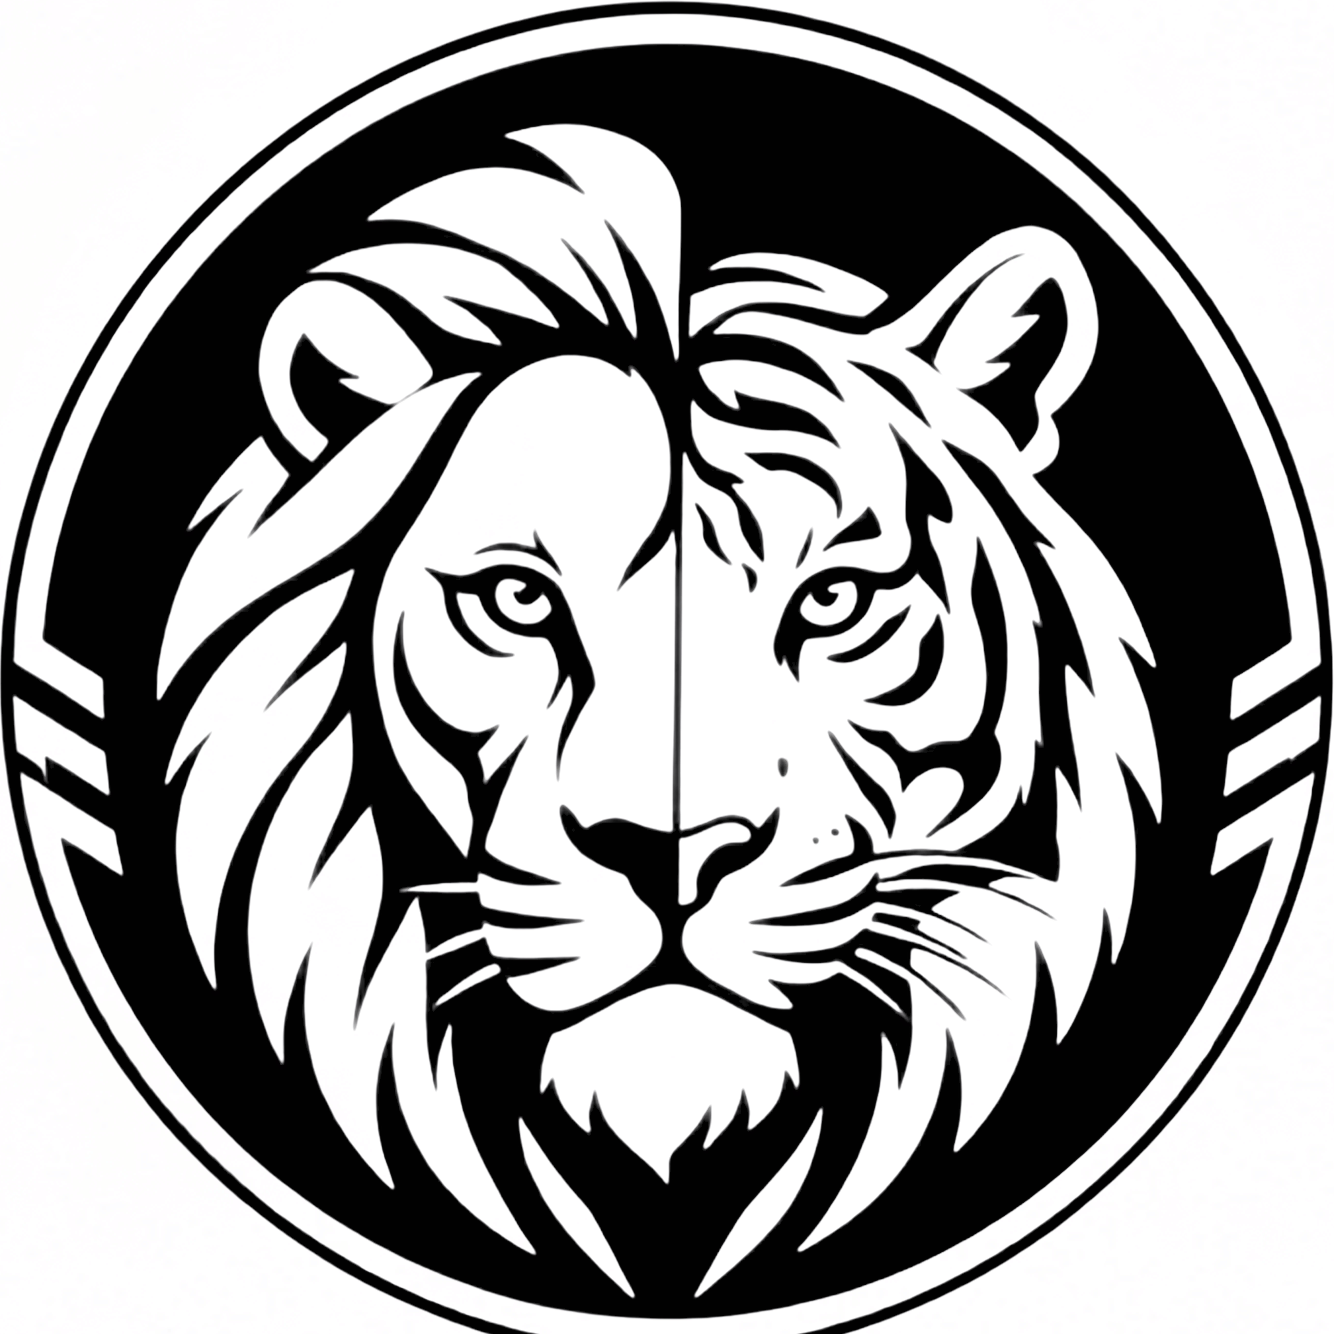
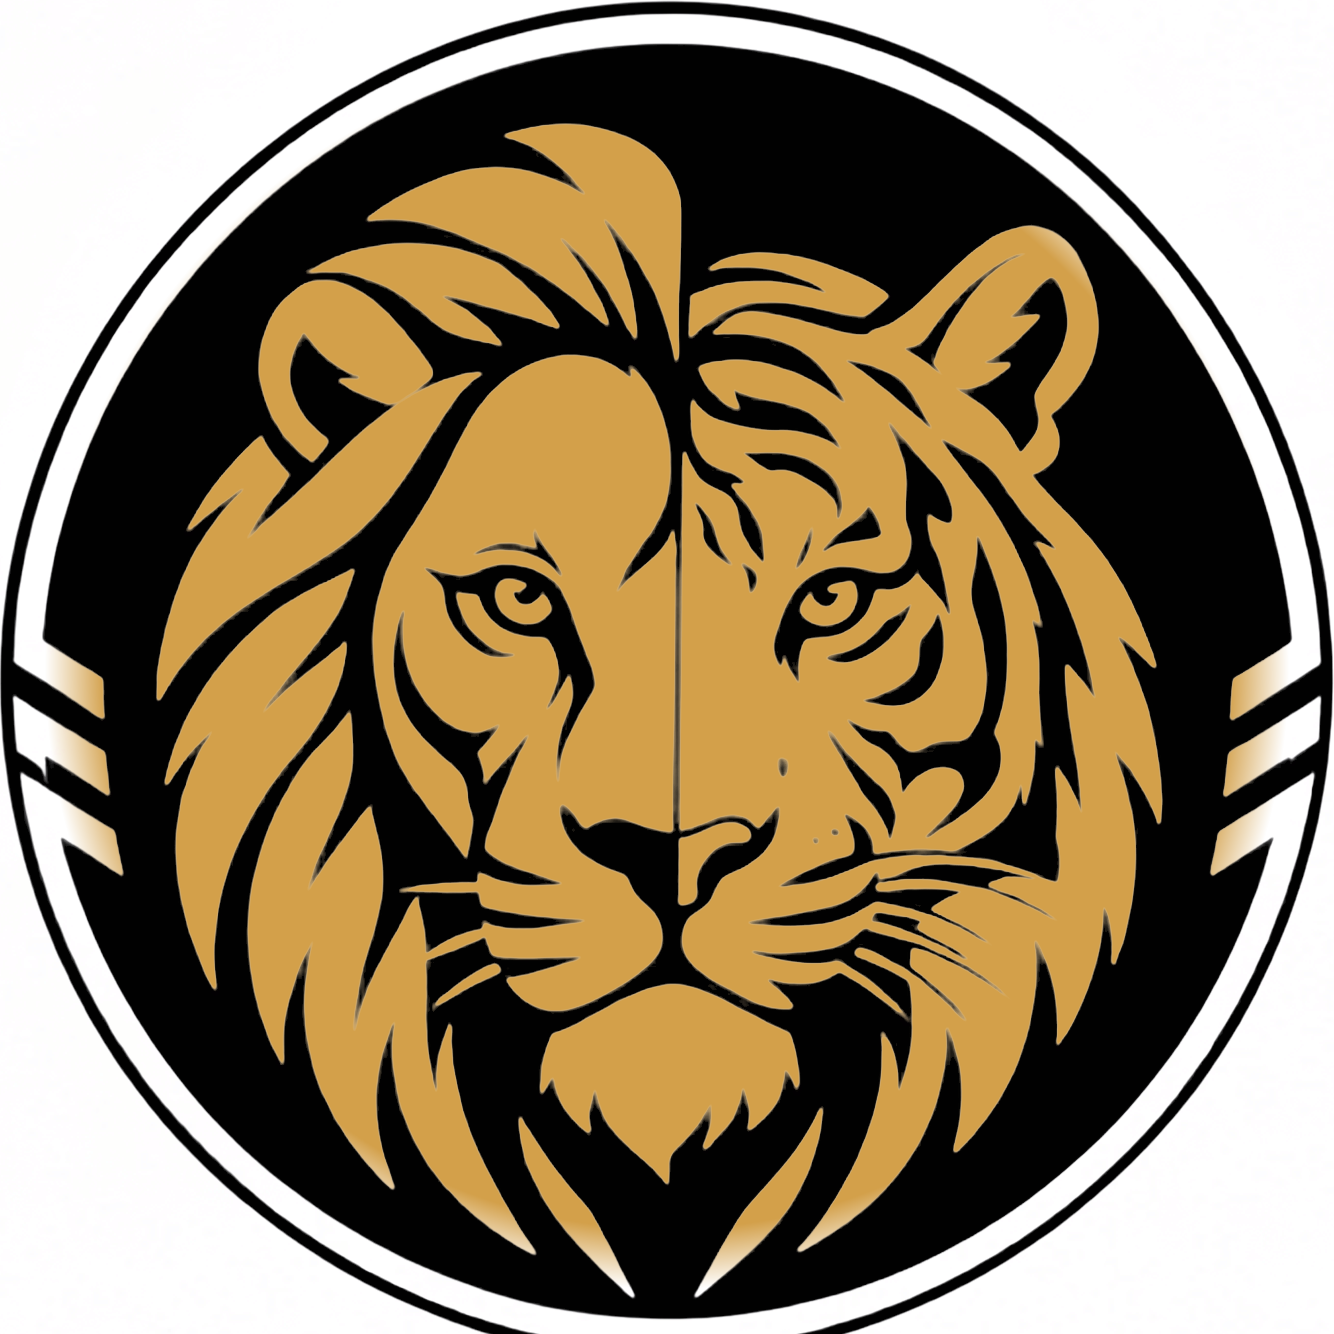
Refine brand mark, footer, and poster styling across sites
Follow-up polish after the brand identity rework: adjusted brand-mark
rendering, expanded footer content, tightened group/learn/poster
styling, and updated the group badge image.

diff --git a/src/app/page.tsx b/src/app/page.tsx
@@ -1,12 +1,7 @@
 import { ArrowDown, ArrowRight } from "lucide-react";
-import { Bevan, Marcellus, Staatliches } from "next/font/google";
 import Image from "next/image";
 import { BrandMark } from "@/components/brand-mark";
 import { ScrollReveal } from "@/components/scroll-reveal";
-
-const staatliches = Staatliches({ weight: "400", subsets: ["latin"], display: "swap" });
-const bevan = Bevan({ weight: "400", subsets: ["latin"], display: "swap" });
-const marcellus = Marcellus({ weight: "400", subsets: ["latin"], display: "swap" });
 
 const series = [
   {
@@ -17,7 +12,6 @@ const series = [
     description:
       "Practical training, supervised experience, and a credible pathway into global remote work.",
     imperative: "Go remote",
-    displayClass: staatliches.className,
     heroImage: "/images/remote/hero.jpg",
     heroAlt: "A LigerRemote professional working remotely from a laptop",
     vars: {
@@ -34,7 +28,6 @@ const series = [
     description:
       "Vetted, managed remote professionals without the hiring uncertainty or management overhead.",
     imperative: "Add capacity",
-    displayClass: bevan.className,
     heroImage: "/images/force/hero.jpg",
     heroAlt: "Two business leaders shaking hands over a deal",
     vars: {
@@ -51,7 +44,6 @@ const series = [
     description:
       "Corporate capability, leadership advisory, and executive search grounded in business outcomes.",
     imperative: "Raise the standard",
-    displayClass: marcellus.className,
     heroImage: "/images/learn/boardroom.jpg",
     heroAlt: "A leadership team celebrating a win together",
     vars: {
@@ -117,6 +109,7 @@ export default function GroupHomePage() {
             <a
               key={poster.key}
               href={poster.path}
+              aria-label={poster.name}
               className={`group-poster reveal reveal--${index + 1}`}
               style={poster.vars as React.CSSProperties}
             >
@@ -130,7 +123,7 @@ export default function GroupHomePage() {
               </div>
               <div className="group-poster__body">
                 <span className="group-poster__series">{poster.series}</span>
-                <h2 className={poster.displayClass}>{poster.name}</h2>
+                <BrandMark brand={poster.key} static />
                 <p>{poster.description}</p>
                 <span className="group-poster__imperative">
                   {poster.imperative}

diff --git a/src/components/brand-mark.tsx b/src/components/brand-mark.tsx
@@ -7,6 +7,8 @@ type BrandMarkProps = {
   href?: string;
   compact?: boolean;
   framed?: boolean;
+  /** Renders as a plain span instead of a Link — for use inside another link/button. */
+  static?: boolean;
 };
 
 export function BrandMark({
@@ -15,21 +17,18 @@ export function BrandMark({
   href,
   compact = false,
   framed = false,
+  static: isStatic = false,
 }: BrandMarkProps) {
   const item = brands[brand];
-  // Group keeps its own black-and-white identity; every other brand's mark
-  // is tinted with its accent colour (ring, divider, and entity name).
-  const brandTint = brand === "group" ? undefined : ({ "--brand-accent": item.accent } as React.CSSProperties);
-
-  return (
-    <Link
-      href={href ?? item.path}
-      className={`brand-mark ${light ? "brand-mark--light" : ""} ${
-        framed ? "brand-mark--framed" : ""
-      }`}
-      style={brandTint}
-      aria-label={`${item.name} home`}
-    >
+  // Every brand's mark is tinted with its own accent colour (ring, divider,
+  // and entity name) — Group's badge illustration stays black-and-white,
+  // but its wordmark carries the same signature gold it always has.
+  const brandTint = { "--brand-accent": item.accent } as React.CSSProperties;
+  const className = `brand-mark ${light ? "brand-mark--light" : ""} ${
+    framed ? "brand-mark--framed" : ""
+  }`;
+  const content = (
+    <>
       <span className="brand-mark__liger">Liger</span>
       <span
         className="brand-mark__divider"
@@ -39,6 +38,25 @@ export function BrandMark({
       <span className="brand-mark__entity">
         {compact ? item.shortName.slice(0, 1) : item.shortName}
       </span>
+    </>
+  );
+
+  if (isStatic) {
+    return (
+      <span className={className} style={brandTint} aria-hidden="true">
+        {content}
+      </span>
+    );
+  }
+
+  return (
+    <Link
+      href={href ?? item.path}
+      className={className}
+      style={brandTint}
+      aria-label={`${item.name} home`}
+    >
+      {content}
     </Link>
   );
 }

diff --git a/src/app/group.css b/src/app/group.css
@@ -77,15 +77,14 @@
 /* The badge — the real Liger Group mark, the hero's centrepiece */
 .group-hero__badge {
   position: absolute;
-  top: 50%;
+  bottom: clamp(1.75rem, 3vw, 2.75rem);
   right: clamp(0.5rem, 4vw, 5rem);
   z-index: -1;
   display: flex;
   align-items: center;
   justify-content: center;
-  width: clamp(15rem, 34vw, 30rem);
-  height: clamp(15rem, 34vw, 30rem);
-  transform: translateY(-46%);
+  width: clamp(13rem, 26vw, 24rem);
+  height: clamp(13rem, 26vw, 24rem);
   pointer-events: none;
 }
 
@@ -111,6 +110,7 @@
 @media (max-width: 980px) {
   .group-hero__badge {
     top: 4.5rem;
+    bottom: auto;
     right: 50%;
     width: clamp(10rem, 46vw, 15rem);
     height: clamp(10rem, 46vw, 15rem);
@@ -185,7 +185,7 @@
 .group-poster {
   display: flex;
   flex-direction: column;
-  border: 3px solid var(--stock);
+  border: 3px solid var(--poster-accent-deep);
   background: var(--stock);
   color: var(--poster-ink);
   transition: transform 220ms cubic-bezier(0.2, 0.75, 0.2, 1);
@@ -228,7 +228,7 @@
   align-items: flex-start;
   gap: 0.85rem;
   padding: 1.5rem 1.5rem 1.75rem;
-  border-top: 3px solid var(--poster-ink);
+  border-top: 3px solid var(--poster-accent-deep);
 }
 
 .group-poster__series {
@@ -239,13 +239,10 @@
   color: var(--poster-accent-deep, var(--poster-accent));
 }
 
-.group-poster h2 {
-  margin: 0;
-  font-size: clamp(1.9rem, 2.8vw, 2.7rem);
-  font-weight: 400;
-  letter-spacing: 0.02em;
-  line-height: 1;
-  text-transform: uppercase;
+.group-poster .brand-mark {
+  height: auto;
+  color: var(--poster-ink);
+  font-size: 1.5rem;
 }
 
 .group-poster p {

diff --git a/src/components/site-footer.tsx b/src/components/site-footer.tsx
@@ -1,7 +1,7 @@
 import Link from "next/link";
 import { ArrowUpRight } from "lucide-react";
 import { BrandMark } from "@/components/brand-mark";
-import type { BrandKey } from "@/lib/brands";
+import { publicBrands, type BrandKey } from "@/lib/brands";
 
 type SiteFooterProps = {
   brand: BrandKey;
@@ -25,6 +25,7 @@ export function SiteFooter({
     privacyHref ?? `mailto:${email}?subject=${encodeURIComponent("Privacy policy request")}`;
   const resolvedTermsHref =
     termsHref ?? `mailto:${email}?subject=${encodeURIComponent("Terms & conditions request")}`;
+  const siblingBrands = publicBrands.filter((item) => item.key !== brand);
 
   return (
     <footer className="site-footer ink-field ink-field--deep">
@@ -38,6 +39,23 @@ export function SiteFooter({
           </a>
         </div>
       </div>
+      {siblingBrands.length > 0 ? (
+        <div className="site-footer__siblings">
+          <span>Also part of Liger Group</span>
+          <div>
+            {siblingBrands.map((item) => (
+              <Link
+                key={item.key}
+                href={item.path}
+                aria-label={item.name}
+                className="site-footer__sibling"
+              >
+                <BrandMark brand={item.key} static />
+              </Link>
+            ))}
+          </div>
+        </div>
+      ) : null}
       <div className="site-footer__bottom">
         <span>© {new Date().getFullYear()} Liger Group</span>
         <div>

diff --git a/src/app/remote/page.tsx b/src/app/remote/page.tsx
@@ -234,7 +234,7 @@ export default async function RemoteHomePage({
                   him.”
                 </blockquote>
                 <p>Barbara Cynthia Amondi</p>
-                <span>LigerRemote graduate</span>
+                <span>Product Specialist · LigerRemote graduate</span>
               </div>
             </article>
             <article className="remote-story">
@@ -245,7 +245,7 @@ export default async function RemoteHomePage({
               />
               <div>
                 <p>Wonder Hagan</p>
-                <span>LigerRemote graduate, placed at a UK client</span>
+                <span>Administration VA · LigerRemote graduate, placed at a UK client</span>
               </div>
             </article>
             <article className="remote-story">
@@ -256,7 +256,7 @@ export default async function RemoteHomePage({
               />
               <div>
                 <p>Ruth Adjetey</p>
-                <span>LigerRemote graduate, placed at a US client</span>
+                <span>Customer Support VA · LigerRemote graduate, placed at a US client</span>
               </div>
             </article>
           </div>

diff --git a/src/app/poster.css b/src/app/poster.css
@@ -371,6 +371,43 @@
   letter-spacing: 0.04em;
 }
 
+.site-footer__siblings {
+  display: flex;
+  flex-wrap: wrap;
+  align-items: center;
+  gap: 1rem 2rem;
+  margin: 0 4vw;
+  padding: 1.4rem 0;
+  border-top: 2px solid color-mix(in srgb, var(--stock) 30%, transparent);
+}
+
+.site-footer__siblings > span {
+  color: color-mix(in srgb, var(--stock) 65%, transparent);
+  font-size: 0.62rem;
+  font-weight: 700;
+  letter-spacing: 0.1em;
+  text-transform: uppercase;
+}
+
+.site-footer__siblings > div {
+  display: flex;
+  flex-wrap: wrap;
+  gap: 1.5rem;
+}
+
+.site-footer__sibling {
+  display: inline-flex;
+  transition: opacity 180ms ease;
+}
+
+.site-footer__sibling:hover {
+  opacity: 0.75;
+}
+
+.site-footer__sibling .brand-mark {
+  color: var(--stock);
+}
+
 .site-footer__bottom {
   display: flex;
   align-items: center;

diff --git a/src/app/learn/page.tsx b/src/app/learn/page.tsx
@@ -240,8 +240,13 @@ export default function LearnHomePage() {
             </article>
 
             <article className="learn-leadership__entry">
-              <div className="duotone learn-leadership__photo-pending" aria-hidden="true">
-                <span>EK</span>
+              <div className="duotone">
+                <Image
+                  src="/images/learn/eseohe.jpg"
+                  alt="Eseohe Kanu, Certified Coach and Facilitator at LigerLearn"
+                  width={640}
+                  height={800}
+                />
               </div>
               <div className="learn-leadership__copy">
                 <h2 className="poster-display">Eseohe Kanu</h2>

diff --git a/src/app/learn.css b/src/app/learn.css
@@ -303,20 +303,6 @@
   border: 3px solid var(--ink-deep);
 }
 
-.learn-leadership__photo-pending {
-  display: flex;
-  align-items: center;
-  justify-content: center;
-  background: var(--ink-3);
-}
-
-.learn-leadership__photo-pending span {
-  font-family: var(--display);
-  font-size: 3rem;
-  color: var(--stock);
-  opacity: 0.7;
-}
-
 .learn-leadership__copy h2 {
   font-size: clamp(2rem, 3.6vw, 3.4rem);
 }

diff --git a/src/app/globals.css b/src/app/globals.css
@@ -143,7 +143,7 @@ a {
 
 .brand-mark__entity {
   color: var(--brand-accent, currentColor);
-  font-weight: 700;
+  font-weight: 450;
   letter-spacing: -0.025em;
 }
 
